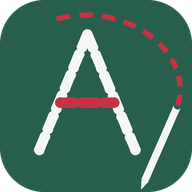
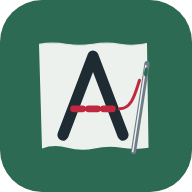
Add files via upload

diff --git a/index.html b/index.html
@@ -727,6 +727,16 @@ body{padding-bottom:calc(66px + env(safe-area-inset-bottom,0px))}
 .d .cutR{fill:none;stroke:var(--thread);stroke-width:1.6;stroke-dasharray:5 3}
 .pl .fig{margin:8px 0 4px}
 
+/* desenul tehnicii, arătat sub pasul de proiect (7.24): puțin mai mic, cu fundal discret */
+.pl .figt{max-width:440px}
+.pl .figt figcaption b{font-family:inherit;font-weight:700}
+
+/* pagina de bun venit (7.24) */
+.intro-p{margin:0 0 var(--s5);padding:0 0 var(--s4);border-bottom:1px dashed var(--line)}
+.intro-p h2{font-size:calc(21px*var(--fs));margin:var(--s3) 0 var(--s1)}
+.intro-p p{margin:0 0 var(--s3)}
+.alert.intro .seg{margin-top:var(--s2)}
+
 </style>
 </head>
 <body>
@@ -796,7 +806,7 @@ var PORNIT=false;
 <div id="updbar" role="status"><span>Există o versiune nouă a Atelierului.</span><button id="updgo">Actualizează</button></div>
 <script>
 "use strict";
-const APP_VER='7.23';
+const APP_VER='7.24';
 const KEY='atelier_v1';
 const TECH=[];
 /*@@CONTENT_START@@*/
@@ -2107,7 +2117,7 @@ TECH.push(
  errors:['Tensiunea reglată pe lucrare, nu pe o probă: rămân găuri de la descusut.','Schimbată cu trepte mari: treci de la o extremă la alta.','Învinuiești tensiunea când de fapt ața de sus nu e pusă corect: verifică întâi drumul aței.','Șurubul bobinei desfăcut mult: pierzi reglajul din fabrică și îl refaci greu.']
 },
 
-{id:'materiale',sec:'stiut',t:'Materialele: ce trebuie să știi înainte de croit',lvl:'u',time:'de citit o dată',
+{id:'materiale',fig:3,sec:'stiut',t:'Materialele: ce trebuie să știi înainte de croit',lvl:'u',time:'de citit o dată',
  tags:'material țesătură tricot bumbac in poliester vâscoză intră la apă se destramă se întinde fir drept spălare',
  intro:'Trei întrebări hotărăsc cum croiești: se destramă, se întinde, intră la apă? Răspunsurile se află în cinci minute, cu un rest de material în mână.',
  need:['un rest din materialul pe care vrei să-l folosești','o riglă','acces la mașina de spălat, pentru proba de intrare la apă'],
@@ -4050,7 +4060,8 @@ function pasCuPas(tip,id,idx){
     const per=activePerson();
     titlu=p.t;inapoi='#/p/'+id;
     let st;try{st=p.pasi(per?per.m:{},pState(p,per).opts)}catch(e){st=[]}
-    pasi=st.map((s,k)=>({h:s.h,p:s.p,tech:s.tech,n:k}));}
+    /* desenul pasului: al lui, dacă are, altfel desenul principal al tehnicii folosite (7.24) */
+    pasi=st.map((s,k)=>{const f=!s.d&&s.tech&&techFig(s.tech);return {h:s.h,p:s.p,tech:s.tech,n:k,d:s.d||(f&&f.d),c:s.d?s.c:(f?`Din fișa „${f.t}”. ${f.c}`:'')}});}
   if(!pasi.length){location.hash=inapoi;return}
   const k=Math.min(i,pasi.length-1), s=pasi[k];
   const bifat=tip==='p'?(()=>{const p=projById(id),per=activePerson(),st=S.proj[pKey(p,per)];
@@ -4215,6 +4226,7 @@ const inSec=s=>ORDER[s].map(byId);
 
 /* ================= ce e nou ================= */
 const NOUTATI=[
+ {v:'7.24',l:['La proiecte, sub pașii care folosesc o tehnică apare direct desenul ei, și în modul pas cu pas. Nu mai trebuie să sari la fișă în mijlocul lucrului.','Pagină nouă, „Cum folosești aplicația”, cu trei desene: căutat o tehnică, început un proiect, copiat din poză. O găsești în „Mai mult”, iar la prima deschidere e propusă pe Acasă.','Iconiță nouă pentru aplicația instalată, în stilul desenelor. Ține apăsat pe iconiță și ai scurtături spre Învăț, Fac și copierea din poză.']},
  {v:'7.23',l:['La toate proiectele, desenul cu așezarea pe balot e o animație în patru pași: întinzi materialul, așezi tiparele pe firul drept, le prinzi cu ace, tai pe contur.','La fusta cerc, pasul „Taie cercul” are o animație cu plierea și compasul, separat pentru cerc și pentru semicerc.','La fusta semicerc, textul spunea să pliezi materialul în patru. Corect e o singură dată, iar compasul pornește din capătul de sus al pliului.']},
  {v:'7.22',l:['Setări: opțiunile stau pe o grilă ordonată, iar sub mărimea textului vezi imediat cum arată textul ales. Legătura de sus duce înapoi la „Mai mult”.','Fac: grupurile de proiecte au iconițe, iar „Copiez ceva ce am deja” arată ca o acțiune, ca pe prima pagină.','„Continuă de unde ai rămas” spune totul pe un rând scurt, de exemplu „Proiect · în ultima oră · 0 din 5 pași”.','Pe carduri apare o bară de progres, de îndată ce ai exersat o fișă sau ai început un proiect.']},
  {v:'7.21',l:['Butonul de mărire s-a mutat din colțul desenului în bara legendei, jos în dreapta. Nu mai acoperă nimic din desen, nici punctele animațiilor. Mărirea merge în continuare și atingând oriunde pe desen.']},
@@ -4342,6 +4354,39 @@ function backupBanner(){
 }
 function bkBtn(){const b=document.getElementById('bkLater');
   if(b)b.onclick=()=>{S.settings.bkAmanat=Date.now();save();b.closest('.alert').remove()}}
+/* desenul principal al unei tehnici, pentru pașii de proiect care o folosesc (7.24):
+   primul pas al fișei care are desen */
+function techFig(id){const t=byId(id);if(!t)return null;
+  /* o fișă poate alege alt pas decât primul, cu fig: indexul pasului */
+  const k=t.fig!=null&&t.steps[t.fig]&&t.steps[t.fig].d?t.fig:t.steps.findIndex(s=>s.d);if(k<0)return null;
+  return {d:t.steps[k].d,c:t.steps[k].c||'',t:t.t,id,k}}
+function figPas(s,i){
+  if(s.d)return `<figure class="fig">${s.d()}<figcaption><b>Pasul ${i+1}</b>${esc(s.c||'')}</figcaption></figure>`;
+  const f=s.tech&&techFig(s.tech);
+  return f?`<figure class="fig figt">${f.d()}<figcaption><b>Din fișa „${esc(f.t)}”</b>${esc(f.c)}</figcaption></figure>`:'';
+}
+/* ================= bun venit (7.24) =================
+   La prima deschidere, pe Acasă apare o invitație scurtă. Pagina se poate deschide oricând din „Mai mult”. */
+function introCard(){
+  if(S.settings.intro||areDate()||Object.keys(S.done).length)return '';
+  return `<section class="alert intro" aria-label="Prima dată aici"><h2>Prima dată în Atelier?</h2>
+    <p>Vezi în trei desene cum se folosește.</p>
+    <div class="seg"><a class="btn pri" href="#/bunvenit">Arată-mi</a><button class="btn" id="introNu">Nu acum</button></div></section>`;
+}
+function bunVenit(){
+  const dT=svg(fab(40,24,240,96)+seamH(72,56,264)+L(56,72,160,72,'st')+needle(172,72,-20,60)+P('M160 72 C 164 90, 150 108, 136 104','thr'),136);
+  const dP=svg(R(40,24,240,100,'balot')+L(40,24,40,124,'selv')+L(280,24,280,124,'selv')+R(56,36,86,76,'pieceL')+R(152,36,54,40,'pieceL')+R(152,84,112,28,'pieceL')
+    +A(99,104,99,46,'grain')+A(99,46,99,104,'grain')+A(179,70,179,42,'grain')+A(179,42,179,70,'grain'),142);
+  const dC=svg(R(100,10,120,128,'ol',16)+L(146,18,174,18,'ol')+R(110,26,48,68,'card',1)+T(134,64,'A4','middle','m')+P('M178 30 L198 30 L208 94 L168 94 Z','fab')+dimH(108,168,208),148);
+  const pan=(d,h,p,href,lab)=>`<section class="intro-p"><figure class="fig">${d}</figure><h2>${h}</h2><p>${p}</p><a class="btn" href="${href}">${lab}</a></section>`;
+  app.innerHTML=`<div class="view"><a class="back" href="#/">← Acasă</a>
+   <header class="head"><h1>Bun venit în Atelier</h1><p class="sub">Manualul și proiectele tale de cusut, croșetat și tricotat. Merge fără internet, iar tot ce notezi rămâne pe telefon.</p></header>
+   ${pan(dT,'1. Caut o tehnică','Fiecare tehnică are pași scurți și desene. Le poți marca drept favorite sau exersate și poți nota trucurile tale.','#/tehnici','Deschide Învăț')}
+   ${pan(dP,'2. Încep un proiect','Alegi un proiect, scrii măsurile o singură dată și primești bucățile de tăiat, așezarea pe material și pașii de bifat.','#/proiecte','Deschide Fac')}
+   ${pan(dC,'3. Copiez din poză','Faci o poză unei lucrări gata făcute, cu o foaie A4 alături, și afli dimensiunile ei și cât material îți trebuie.','#/copii','Deschide copierea')}
+   <div class="seg"><a class="btn pri" href="#/" id="introGata">Am înțeles</a></div></div>`;
+  S.settings.intro=1;save();
+}
 function continua(){
   const R=S.recent||{}, items=[];
   if(R.t&&byId(R.t.id)){const t=byId(R.t.id);
@@ -4389,7 +4434,7 @@ function acasa(){
   const nT=TECH.length, nD=TECH.filter(t=>S.done[t.id]).length;
   const fav=TECH.filter(t=>S.fav[t.id]), per=activePerson();
   app.innerHTML=`<div class="view">${mast('Atelier','Manualul și proiectele tale de cusut, croșetat și tricotat.')}
-   ${backupBanner()}${continua()}
+   ${backupBanner()}${introCard()}${continua()}
    <section class="a3s" aria-label="Ce vrei să faci">
     <a class="a3" href="#/tehnici">${ic('tehnica')}<span class="txt"><b>Caut o tehnică</b><span>cum se face ceva anume</span></span></a>
     <a class="a3" href="#/proiecte">${ic('proiect')}<span class="txt"><b>Încep un proiect</b><span>calculat cu măsurile tale</span></span></a>
@@ -4407,6 +4452,7 @@ function acasa(){
    ${per?`<p class="who">Proiectele se calculează acum cu măsurile <b>${esc(per.nume)}</b>.</p>`:''}
    </div>`;
   newsBtn();bkBtn();
+  const inu=document.getElementById('introNu');if(inu)inu.onclick=()=>{S.settings.intro=1;save();inu.closest('.intro').remove()};
 }
 function maiMult(){
   const lb=S.settings.lastBackup, zile=lb?Math.round((Date.now()-lb)/864e5):null;
@@ -4424,6 +4470,7 @@ function maiMult(){
     ${rand('#/noutati','Ce e nou',`versiunea ${APP_VER}`,0,'nou')}
    </ul></section>
    <section class="sec"><div class="sec-h"><h2>Ajutor</h2></div><ul class="list">
+    ${rand('#/bunvenit','Cum folosești aplicația','cele trei feluri, pe scurt',0,'tehnica')}
     ${rand('#/legenda','Cum citești desenele','semnele folosite în toate figurile',0,'legenda')}
     ${rand('#/t/depanare','Depanarea mașinii','ce verifici când ceva nu merge',0,'depanare')}
     ${rand('#/t/janome-1522','Mașina ta, Janome 1522GN','reglajele ei, pas cu pas',0,'masina2')}
@@ -4943,7 +4990,7 @@ function project(id){
       <p class="mm-l">Bifează pe măsură ce avansezi. Rămâne salvat.</p>
       <ol class="pl">${steps.map((s,i)=>`<li class="${st.done.includes(i)?'ok':''}">
         <label><input type="checkbox" data-s="${i}"${st.done.includes(i)?' checked':''}>
-        <span><b>${esc(s.h)}</b>${esc(s.p)}${s.tech&&byId(s.tech)?` <a href="#/t/${s.tech}">Vezi tehnica: ${esc(byId(s.tech).t)}</a>`:''}</span></label>${s.d?`<figure class="fig">${s.d()}<figcaption><b>Pasul ${i+1}</b>${esc(s.c||'')}</figcaption></figure>`:''}</li>`).join('')}</ol>
+        <span><b>${esc(s.h)}</b>${esc(s.p)}${s.tech&&byId(s.tech)?` <a href="#/t/${s.tech}">Vezi tehnica: ${esc(byId(s.tech).t)}</a>`:''}</span></label>${figPas(s,i)}</li>`).join('')}</ol>
       <div class="seg"><a class="btn pri" href="#/pas/p/${p.id}/0">Mod pas cu pas</a>
        <button class="btn" id="reset">Șterge bifele</button></div></details>`;
     rez.querySelectorAll('[data-w]').forEach(b=>b.onclick=()=>{st.W=+b.dataset.w;save();render()});
@@ -5053,6 +5100,7 @@ function route(){
   else if(h==='#/mai-mult')maiMult();
   else if(h.startsWith('#/p/'))project(decodeURIComponent(h.slice(4)));
   else if(h==='#/legenda')legend();
+  else if(h==='#/bunvenit')bunVenit();
   else if(h==='#/proiecte')projects();
   else if(h==='#/persoane')persoane();
   else if(h.startsWith('#/persoana/'))persoana(h.slice(11));

diff --git a/sw.js b/sw.js
@@ -1,7 +1,7 @@
 /* Atelier: service worker.
    ATENȚIE: cache-urile sunt comune pe tot domeniul (costi1622.github.io), deci și cu Nivelo.
    Aici ștergem DOAR cache-urile care încep cu „atelier-”. */
-const VER='7.23';
+const VER='7.24';
 const CACHE='atelier-v'+VER;
 const FONTS='atelier-fonts';
 const SHELL=['./','index.html','manifest.webmanifest','icon-192.png','icon-512.png','icon-maskable-512.png'];
